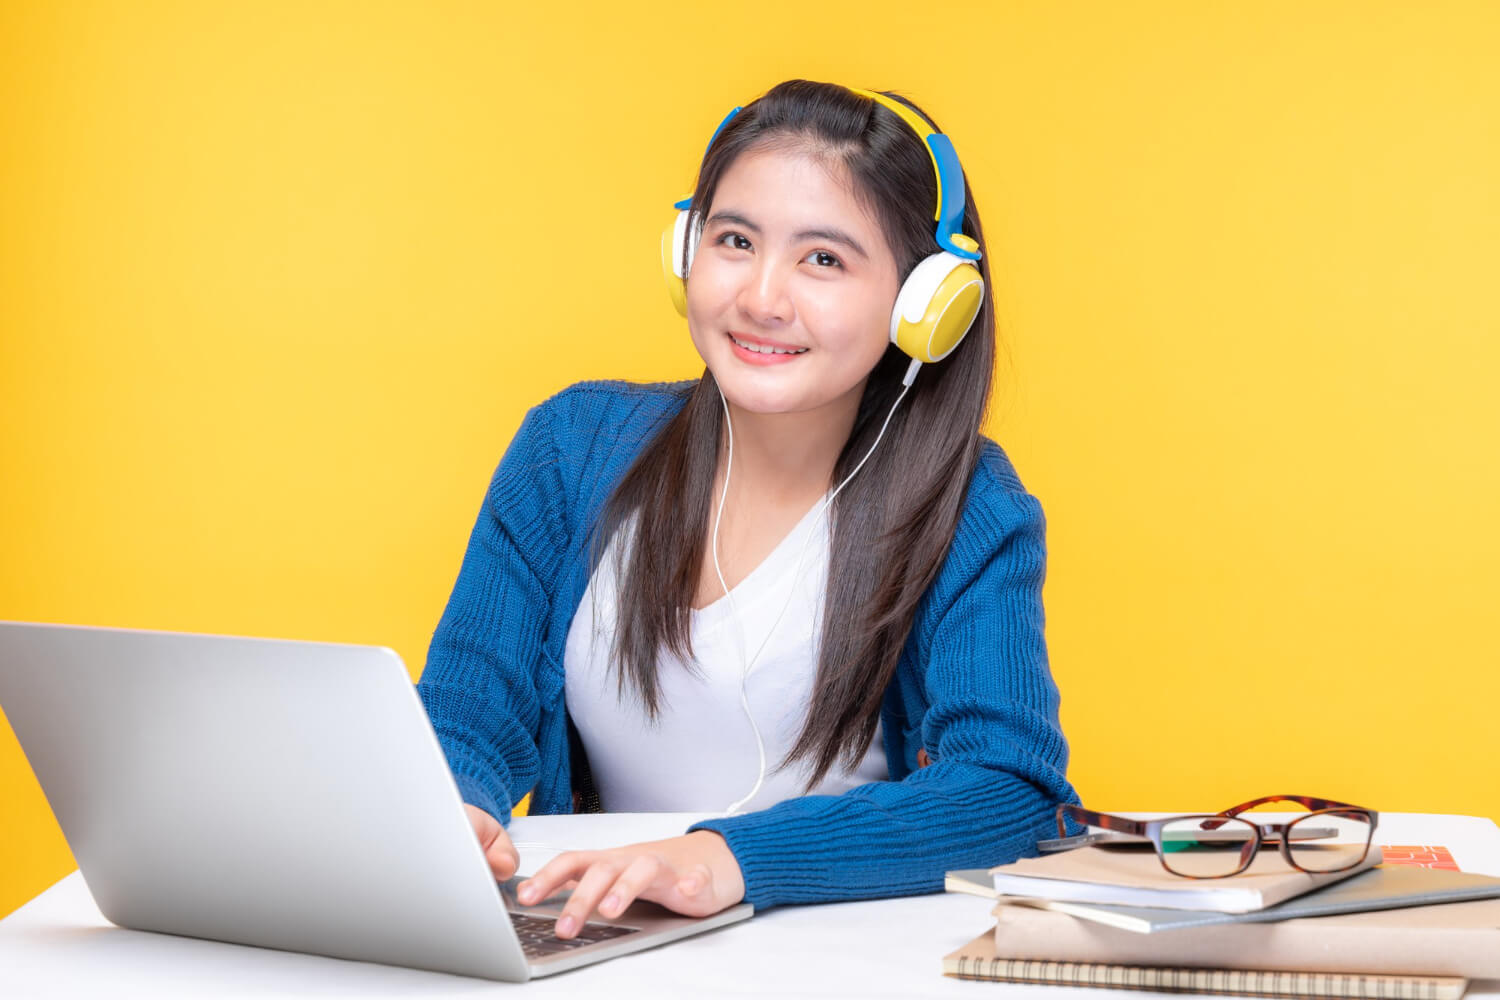
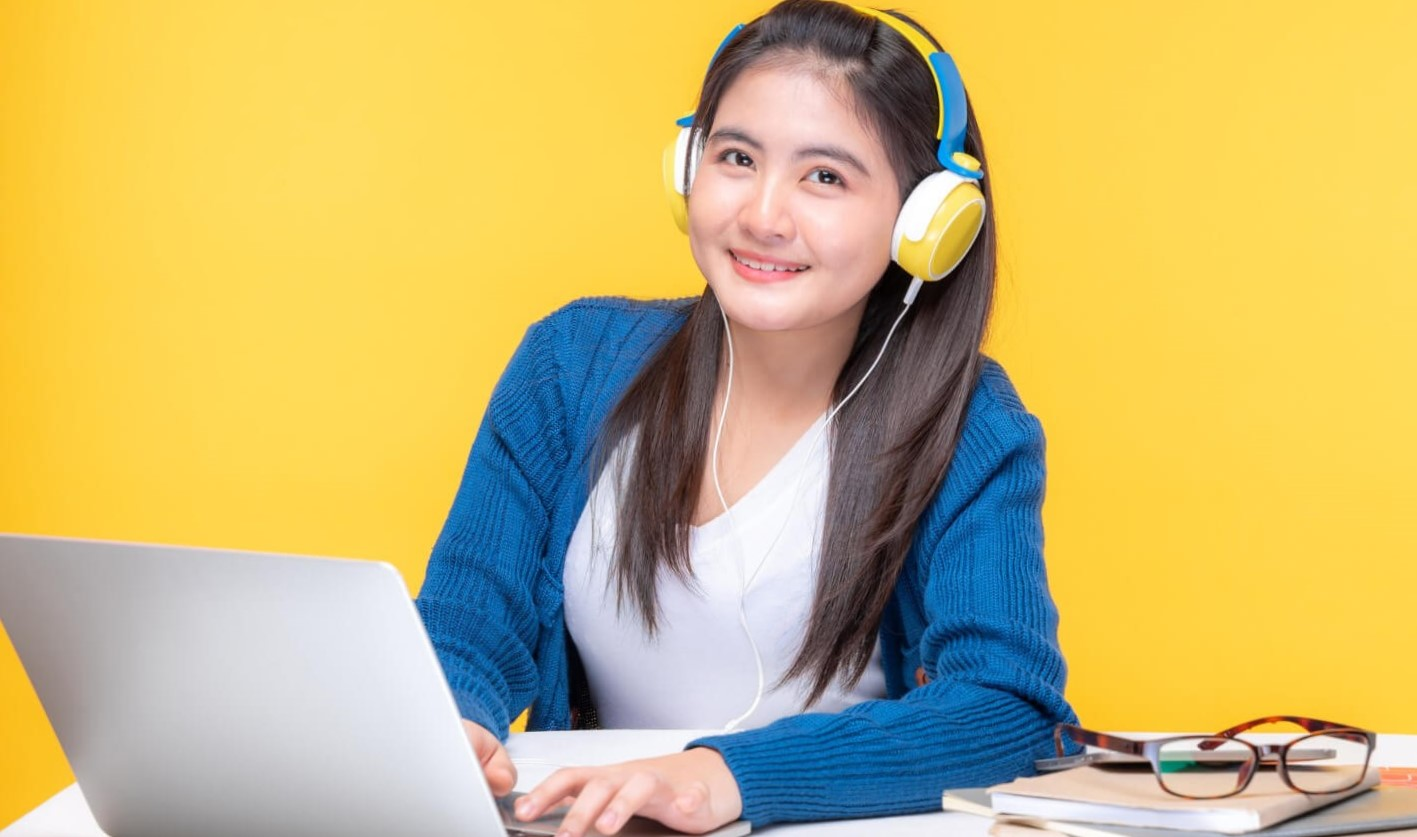
98% work done

diff --git a/index.html b/index.html
@@ -105,7 +105,7 @@
       </div>
       <div class="carousel-inner relative w-full overflow-hidden rounded-md">
         <div class="carousel-item active relative float-left w-full ">
-          <img src="./images/cover/cover-1.png" class="block w-full h-50" alt="..." />
+          <img src="./images/cover/cover-1.png" class="block w-full h-1/2" alt="..." />
           <div class="carousel-caption  md:block absolute text-center lg:mb-40  lg:pb-28 md:mb-30 mb-0 md:pb-20 pb-0">
             <h5 class="text-xl lg:text-6xl font-bold lg:mb-10 md:text-3xl md:mb-10 mb-0">Get Started Digital Learning</h5>
             <p class="lg:text-xl md:text-xl text-xs">It is a long established fact that a reader will be distracted by the readable content of a page when looking at its
@@ -116,7 +116,7 @@
           </div>
         </div>
         <div class="carousel-item relative float-left w-full ">
-          <img src="./images/cover/cover-3.jpg" class="block w-full h-50" alt="..." />
+          <img src="./images/cover/cover-3.jpg" class="block w-full h-1/2" alt="..." />
           <div class="carousel-caption  md:block absolute text-center lg:mb-40 lg:pb-28 md:mb-30 mb-0 md:pb-20 pb-0"">
             <h5 class="text-xl lg:text-6xl lg:font-bold lg:mb-10 md:text-3xl md:mb-10 mb-0">Get Started Digital Learning</h5>
             <p class="lg:text-xl md:text-xl text-xs">It is a long established fact that a reader will be distracted by the readable content of a page when looking at its
@@ -158,7 +158,7 @@
   <!-- Main -->
   <main class="my-40 ">
     <!-- Discover Our Courses -->
-    <section class="my-20">
+    <section class="my-20 md:mx-10 mx-5">
     <div class="lg:px-64 lg:my-20 ">
       <div class="text-center  ">
         <h1 class="lg:text-5xl md:text-3xl font-bold  mb-7">Discover Our Popular Courses</h1>
@@ -266,8 +266,8 @@
 
     <!-- Explore The elearning Institute -->
     <section >
-      <div class="mx-5">
-        <div class="flex justify-evenly md:mx-10 lg:my-40 sm:my-20 my-8" >
+      <div class="md:mx-10 lg:my-40 mx-5">
+        <div class="flex justify-evenly sm:my-20 my-8" >
       <div class="flex flex-col md:flex-row md:max-w-5xl rounded-lg bg-white shadow-lg">
         <img class="w-full h-96 md:h-auto object-cover md:w-full rounded-t-lg md:rounded-none md:rounded-l-lg"
           src="./images/working.png" alt="" />
@@ -307,7 +307,7 @@
   </section>
 
     <!-- Ready to join? -->
-    <section class="bg-sky-500 rounded-xl lg:flex p-20 lg:mx-40 text-white lg:text-left md:text-center text-center mx-5">
+    <section class="bg-sky-500 rounded-xl lg:flex p-2 text-white lg:text-left md:text-center text-center 0 lg:mx-40 md:mx-10 mx-5">
       <div class="justify-start">
         <h1 class="lg:text-6xl md:text-3xl font-bold mb-5">Ready to join?</h1>
         <p>It is a long established fact that a reader will be distracted by the readable content of a page when looking at its
@@ -323,7 +323,7 @@
             bg-white
             text-sky-500
             font-medium
-            text-xs
+            text-base
             leading-tight
             uppercase
             rounded
@@ -404,11 +404,11 @@
         layout.</p>
         </div>
         <div class="my-12">
-          <div class="grid lg:grid-cols-4 md:grid-cols-2 grid-cols-1 gap-8">
+          <div class="grid lg:grid-cols-4 md:grid-cols-2 grid-cols-1 gap-8 ">
             <!-- Student 1 -->
             <div class="rounded-lg shadow-lg bg-white max-w-sm">
               <a href="#!" data-mdb-ripple="true" data-mdb-ripple-color="light">
-                <img class="rounded-lg lg:ml-7  md:ml-9 ml-8" src="./images/student/student-1.png" alt="" />
+                <img class="rounded-lg " src="./images/student/student-1.png" alt="" />
               </a>
               <div class="p-6">
                 <h5 class="text-gray-900 text-xl font-medium mb-2">Awlad Hossain</h5>
@@ -421,7 +421,7 @@
             <!-- Student 2 -->
             <div class="rounded-lg shadow-lg bg-white max-w-sm">
               <a href="#!" data-mdb-ripple="true" data-mdb-ripple-color="light">
-                <img class="rounded-lg lg:ml-7  md:ml-9 ml-8" src="./images/student/student-2.png" alt="" />
+                <img class="rounded-lg " src="./images/student/student-2.png" alt="" />
               </a>
               <div class="p-6">
                 <h5 class="text-gray-900 text-xl font-medium mb-2">Jannatul Islam</h5>
@@ -434,7 +434,7 @@
             <!-- Student 3 -->
             <div class="rounded-lg shadow-lg bg-white max-w-sm">
               <a href="#!" data-mdb-ripple="true" data-mdb-ripple-color="light">
-                <img class="rounded-lg lg:ml-7  md:ml-9 ml-8" src="./images/student/student-3.png" alt="" />
+                <img class="rounded-lg " src="./images/student/student-3.png" alt="" />
               </a>
               <div class="p-6">
                 <h5 class="text-gray-900 text-xl font-medium mb-2">Imran Hossain</h5>
@@ -447,7 +447,7 @@
             <!-- Student 4 -->
             <div class="rounded-lg shadow-lg bg-white max-w-sm">
               <a href="#!" data-mdb-ripple="true" data-mdb-ripple-color="light">
-                <img class="rounded-lg lg:ml-7  md:ml-9 ml-8" src="./images/student/student-4.png" alt="" />
+                <img class="rounded-lg " src="./images/student/student-4.png" alt="" />
               </a>
               <div class="p-6">
                 <h5 class="text-gray-900 text-xl font-medium mb-2">Nishi Akter</h5>
